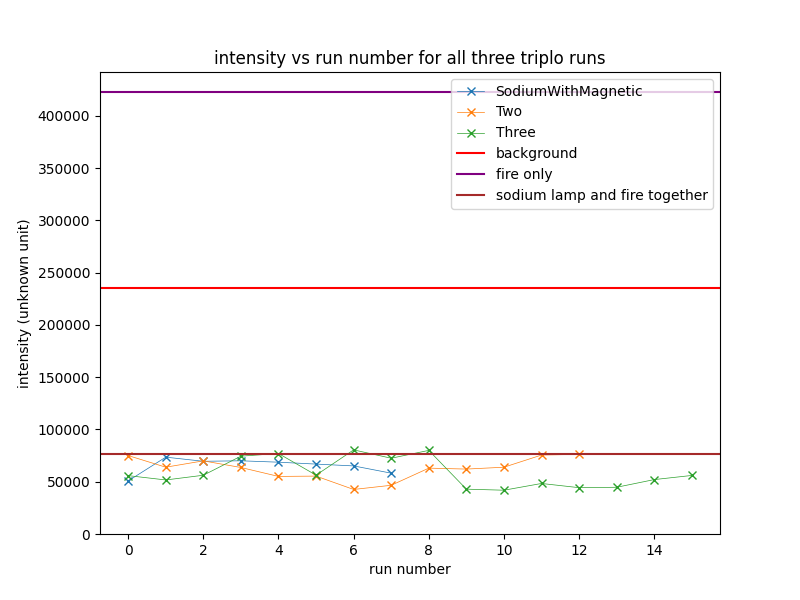
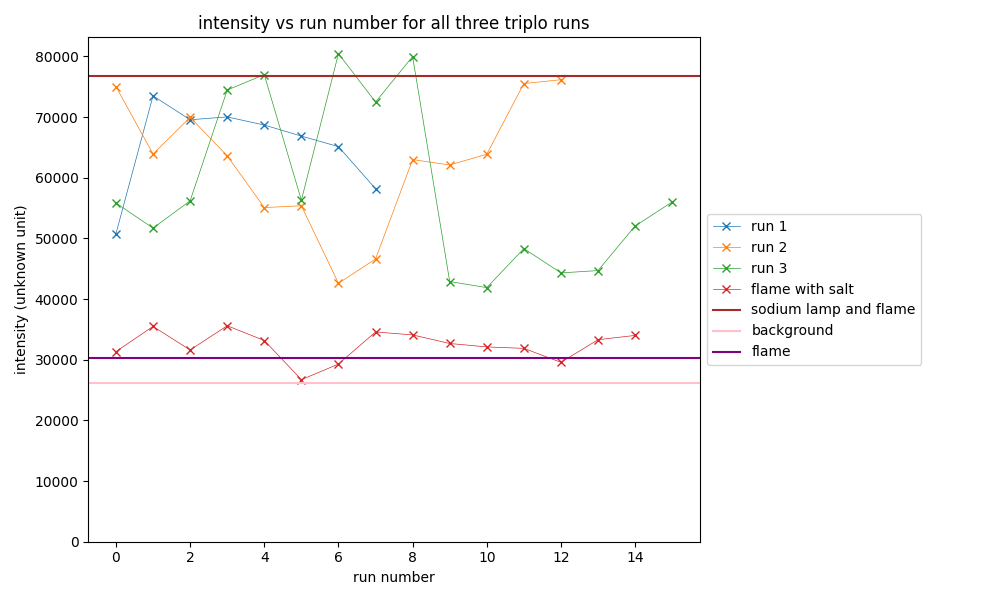
about to remove parser

diff --git a/python/package/module.py b/python/package/module.py
@@ -137,7 +137,7 @@ def get_average(dictionary):
         intensity = dictionary[spectrumName].sum()
         sumOfIntensities += intensity
         nrOfSpectra += 1
-    return sumOfIntensities
+    return sumOfIntensities / nrOfSpectra
     
 def get_sodiumLampAndFlameLight(newData):
     """ We want to see whether adding salt to the flame cast a shadow. The first
@@ -162,33 +162,77 @@ def get_intensities(spectraDictionary):
         if (spectrumNameOrNumber != "λ" and spectrumNameOrNumber != "Raw_E"): # just in case
             intensity = spectraDictionary[spectrumNameOrNumber].sum()
             intensities.append(intensity)
-    return intensities        
+    return intensities   
 
-def plot_experiment(background, fireLight, sodiumLight, sodiumLampAndFlameLight,
+def fix_layout():
+    plt.xlabel("run number")
+    plt.ylabel(f"intensity (unknown unit)")
+    plt.ylim(bottom=0)
+    plt.legend(loc='center left', bbox_to_anchor=(1, 0.5))
+    plt.tight_layout()
+    plt.subplots_adjust(right=0.7) 
+
+def plot_sodium(background, fireLight, sodiumLight, sodiumLampAndFlameLight,
                     newData):  
-    sodium = ["SoFlameWithSlit", "SoFlameWithSlitTwo", "SoFlameWithSlitThree"]
-    sodiumWithMagnet = ["SodiumWithMagnetic", "Two", "Three"]
-    mercury = ["fireWithSodium", "two", "third"]
+    runNames = [("SoFlameWithSlit", "run 1"), ("SoFlameWithSlitTwo", "run 2"), ("SoFlameWithSlitThree", "run 3")]
     
-    for setupNumber, runNames in [(5, sodium),
-                                  (6, sodiumWithMagnet), 
-                                  (9, mercury)]:
-        plt.figure(figsize=(8, 6))
-        for runName in runNames:
-            intensities = get_intensities(newData[setupNumber][runName])
-            plt.plot(intensities, label=runName, linestyle='-', marker = 'x', linewidth=0.5)
-        plt.axhline(background, label="background", color="red")
-        plt.axhline(fireLight, label="fire only", color="purple")
-        plt.axhline(sodiumLampAndFlameLight, label="sodium lamp and fire together", color="brown")
+    plt.figure(figsize=(10, 6))
+    for runName, label in runNames:
+        intensities = get_intensities(newData[5][runName])
+        plt.plot(intensities, label=label, linestyle='-', marker = 'x', linewidth=0.5)
+    FireAndSaltIntensities = get_intensities(newData[11]["fireWithSodium"])
+    
+    plt.plot(FireAndSaltIntensities, label="flame with salt", linestyle='-', marker = 'x', linewidth=0.5)
+    plt.axhline(sodiumLampAndFlameLight, label="sodium lamp and flame", color="brown")
+    plt.axhline(background, label="background", color="pink")
+    plt.axhline(fireLight, label="flame", color="purple")
+    
+    fix_layout()
+    make_directory("../report-plots")
+    plt.savefig(f"../report-plots/5: intensity vs run.png")
+    plt.clf()
+    
+    
+def plot_magnet(background, fireLight, sodiumLight, sodiumLampAndFlameLight,
+                    newData):  
+    runNames = ["SodiumWithMagnetic", "Two", "Three"]
+    
+    plt.figure(figsize=(10, 6))
+    for index, runName in enumerate(runNames):
+        intensities = get_intensities(newData[6][runName])
+        plt.plot(intensities, label=f"run {index + 1}", linestyle='-', marker = 'x', linewidth=0.5)
         
-        plt.title("intensity vs run number for all three triplo runs")
-        plt.xlabel("run number")
-        plt.ylabel(f"intensity (unknown unit)")
-        plt.ylim(bottom=0)
-        plt.legend()
-        make_directory("../report-plots")
-        plt.savefig(f"../report-plots/{setupNumber}: intensity vs run.png")
-        plt.clf()
+    FireAndSaltIntensities = get_intensities(newData[11]["fireWithSodium"])
+    plt.plot(FireAndSaltIntensities, label="flame with salt", linestyle='-', marker = 'x', linewidth=0.5)
+    
+    plt.axhline(sodiumLampAndFlameLight, label="sodium lamp and flame", color="brown")
+    plt.axhline(background, label="background", color="pink")
+    plt.axhline(fireLight, label="flame", color="purple")
+    
+    fix_layout()
+    make_directory("../report-plots")
+    plt.savefig(f"../report-plots/6: intensity vs run.png")
+    plt.clf()
+    
+def plot_mercury(background, fireLight, sodiumLight, sodiumLampAndFlameLight,
+                    newData):  
+    runNames = ["fireWithSodium", "two", "third"]
+    
+    plt.figure(figsize=(10, 6))
+    for index, runName in enumerate(runNames):
+        intensities = get_intensities(newData[9][runName])
+        plt.plot(intensities, label=f"run {index + 1}", linestyle='-', marker = 'x', linewidth=0.5)
+        
+    FireAndSaltIntensities = get_intensities(newData[11]["fireWithSodium"])
+    plt.plot(FireAndSaltIntensities, label="flame with salt", linestyle='-', marker = 'x', linewidth=0.5)
+    
+    plt.axhline(background, label="background", color="pink")
+    plt.axhline(fireLight, label="flame", color="purple")
+    
+    fix_layout()
+    make_directory("../report-plots")
+    plt.savefig(f"../report-plots/9: intensity vs run.png")
+    plt.clf()
 
 ## Functions to inspect data:
 def get_spectra_plot(spectraDictionary, lamdaArray, name):

diff --git a/python/simple.py b/python/simple.py
@@ -10,9 +10,9 @@ def main():
     sodiumLight = data[5]["LampShielded_E"].sum()
     sodiumLampAndFlameLight = get_sodiumLampAndFlameLight(newData)
     
-    plot_experiment(background, fireLight,
-                    sodiumLight, sodiumLampAndFlameLight,
-                    newData)
+    plot_sodium( background, fireLight, sodiumLight, sodiumLampAndFlameLight, newData)
+    plot_magnet( background, fireLight, sodiumLight, sodiumLampAndFlameLight, newData)
+    plot_mercury(background, fireLight, sodiumLight, sodiumLampAndFlameLight, newData)
     
 if __name__ == "__main__":
     main()

diff --git a/python/main.py b/python/main.py
@@ -34,8 +34,12 @@ def main():
     
 
     # Let's plot:
-    plot_experiment(background, fireLight, sodiumLight, sodiumLampAndFlameLight,
-                    newData)
+    plot_sodium(background, fireLight, sodiumLight, sodiumLampAndFlameLight,
+                newData)
+    plot_magnet(background, fireLight, sodiumLight, sodiumLampAndFlameLight,
+                newData)
+    plot_mercury(background, fireLight, sodiumLight, sodiumLampAndFlameLight,
+                 newData)
     
 if __name__ == "__main__":
     main()

diff --git a/python/get-all-plots.py b/python/get-all-plots.py
@@ -3,9 +3,7 @@
 from package import *
 
 data = acquire_data()
-newData = separate_duplos(data)
+newData = separate_runs(data)
 # print_columnNames(newData)
-lambdaArray = data[1]["λ"] # lambda is found all over the place but they
-                            # should all be the same
                             
-get_new_plots(data, newData)
+process_newData(data, newData)

diff --git a/python/test.py b/python/test.py
@@ -3,7 +3,7 @@
 from package import *
 
 data = acquire_data()
-newData = separate_duplos(data)
+newData = separate_runs(data)
 
 print_duploNames(newData)
 # print_columnNames(data)
